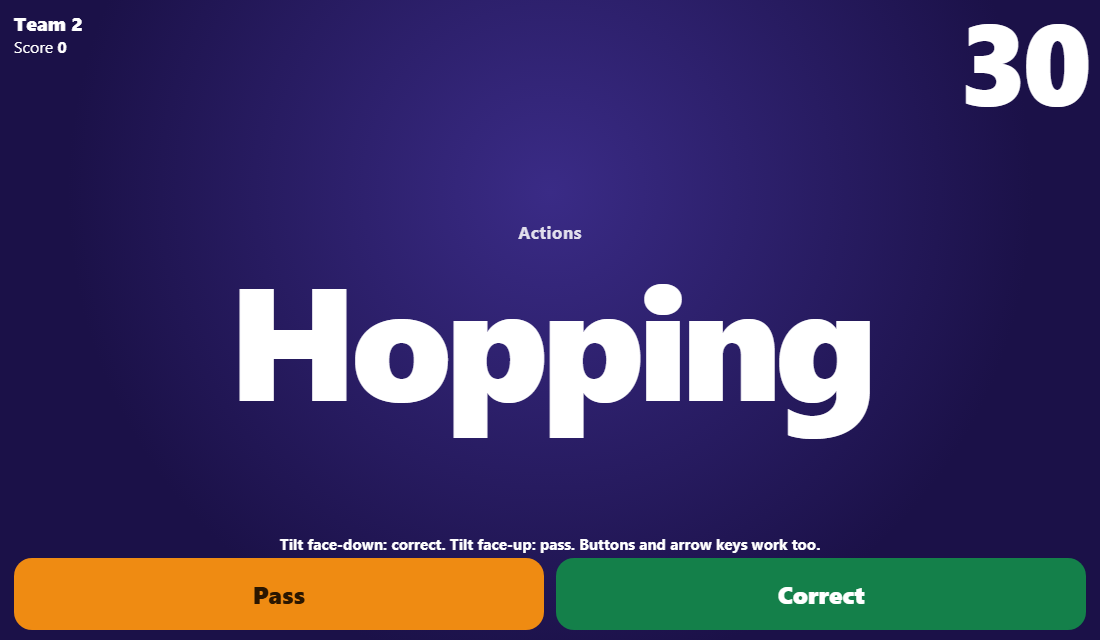
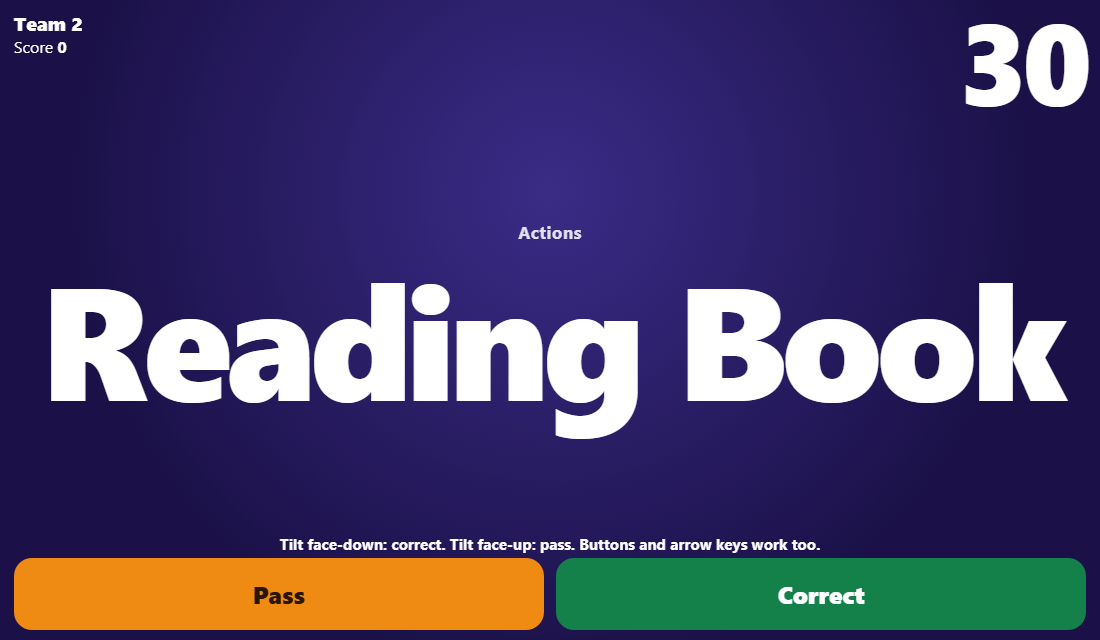
Record the live Pages QC for Charades.
The 44 headless checks, including simulated tilt, passed on https://bryanralston.github.io/charades/ with no console errors.

Changed region(s): [[0.0309, 0.4375, 0.9891, 0.6875]]

diff --git a/qa/REPORT.md b/qa/REPORT.md
@@ -1,20 +1,29 @@
 # Charades v1 QC
 
-Local static server only. No GitHub repo, push, or Pages site was created. Publishing is a later step.
+Live GitHub Pages site. The public repo is https://github.com/BryanRalston/charades. Pages is built from `main` at `/`.
 
-- Page: http://127.0.0.1:8765/
-- Server: `python -m http.server 8765 --bind 127.0.0.1` from `C:\Users\bryma\dev\charades`
+- Page: https://bryanralston.github.io/charades/
 - Browser: headless Chrome, driven by `qa/headless_qc.mjs` over the DevTools protocol
-- Result: 44 checks passed after the decks were expanded. Console events: none. No 402 or 429.
-- Shuffle check: `node qa/shuffle_check.mjs` passed 28 checks. A round's cards were unique and not in list order, the next round did not repeat them, and Reshuffle held back the most recent 24.
+- Command: `CHARADES_URL=https://bryanralston.github.io/charades/ node qa/headless_qc.mjs`
+- Result: 44 checks passed. Console events: none. No 402 or 429.
 
-`sw.js`, `manifest.webmanifest`, `icon-192.png`, and `icon-512.png` each returned HTTP 200.
+Prompt counts below were read from the live page source. Headings and category names were read from the rendered live page.
+
+These live responses were HTTP 200:
+
+| URL | Content type |
+| --- | --- |
+| https://bryanralston.github.io/charades/ | text/html |
+| https://bryanralston.github.io/charades/sw.js | application/javascript |
+| https://bryanralston.github.io/charades/manifest.webmanifest | application/manifest+json |
+| https://bryanralston.github.io/charades/icon-192.png | image/png |
+| https://bryanralston.github.io/charades/icon-512.png | image/png |
 
 ## Checklist
 
 | Check | Result |
 | --- | --- |
-| Local page loads | Pass |
+| Live page loads | Pass |
 | Headings and category names match the brief | Pass |
 | Each category has at least 40 prompts | Pass |
 | Face-down tilt scores Correct once | Pass |
@@ -30,9 +39,9 @@ Local static server only. No GitHub repo, push, or Pages site was created. Publi
 
 ## What the page shows
 
-Headings, in order: Christian, Classic, Mix.
+Headings, in order, as rendered: Christian, Classic, Mix.
 
-Category buttons under those headings, in order, with the prompt count in the page:
+Category buttons under those headings, in order, with the prompt count in the live page:
 
 | Heading | Category | Prompts |
 | --- | --- | --- |
@@ -60,7 +69,7 @@ Each new card is drawn at random from the prompts not yet guessed or passed. Whe
 
 ## Tilt run
 
-The test fixed `screen.orientation.angle` and dispatched `deviceorientation` events. Positive tilt means the screen has turned face-down from upright.
+The test fixed `screen.orientation.angle` and dispatched `deviceorientation` events on the live page. Positive tilt means the screen has turned face-down from upright.
 
 Landscape-left (angle 90), Actions, 30-second round:
 
@@ -74,15 +83,17 @@ Landscape-right (angle 270):
 
 - Face-down (beta 180 / gamma 50) scored one correct.
 
-Arrow down also scored one correct. The round then reached 0 by itself. The recap listed the guessed and passed prompts, showed Team 1 scored 3, total 3, and set the next turn to Team 2.
+Arrow down also scored one correct. The round then reached 0 by itself. The recap listed guessed prompts Patting Head, Brushing Teeth, and Hopping, and the passed prompt Blowing Kiss. It showed Team 1 scored 3, total 3, and set the next turn to Team 2.
 
 After reload, Team 1 was still on 3, the turn was still Team 2, the round length was still 30, and Actions was still selected.
 
-With every Actions prompt marked used, Tap to start showed "No prompts left in this category." Reshuffle dealt an Actions prompt again.
+With every Actions prompt marked used, Tap to start showed "No prompts left in this category." Reshuffle dealt an Actions prompt again (Reading Book).
 
 In a 420×800 portrait viewport the countdown showed the overlay text "Rotate your phone".
 
 ## Screenshots
+
+Taken from the live page during this run:
 
 - `qa/01-setup.png` — headings, categories, and Tap to start
 - `qa/02-play.png` — prompt and timer
@@ -95,4 +106,4 @@ In a 420×800 portrait viewport the countdown showed the overlay text "Rotate yo
 - `qa/09-empty.png` — category exhausted
 - `qa/10-reshuffle.png` — a prompt dealt again
 
-Raw check output is in `qa/results.json`. The run is `node qa/headless_qc.mjs` while the static server is up.
+Raw check output is in `qa/results.json`.
